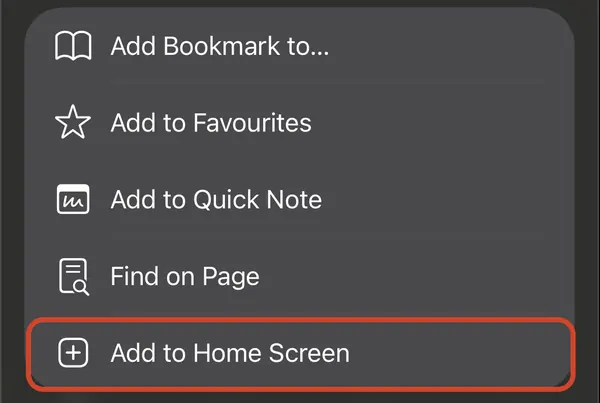
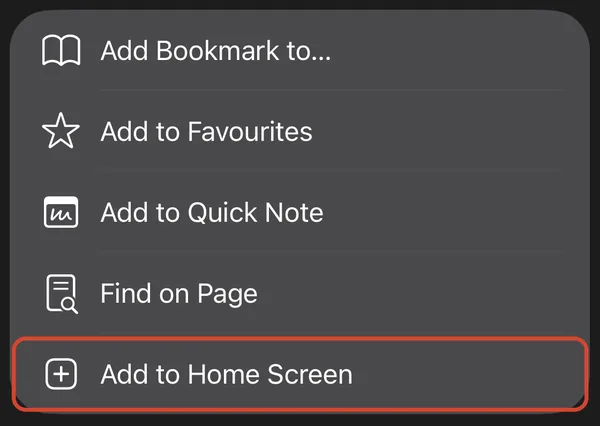
Install guide: new Safari pictures; step 1 is ☰ in the address bar
The share sheet's row of contacts is cut out of the picture.

Changed region(s): [[0.0, 0.0, 1.0, 1.0], [0.09, 0.0, 0.9, 0.0298]]

diff --git a/web/src/install/InstallGuide.tsx b/web/src/install/InstallGuide.tsx
@@ -27,8 +27,8 @@ const S = strings(
     label: 'Install the app',
     title: 'This app is designed to work from your Home Screen',
     why: 'In the browser, you might see some bugs or glitches.',
-    s1: 'Tap ••• at the bottom right.',
-    s1b: 'No ••• button? Tap Share, then go to step 3.',
+    s1: 'Tap ☰ in the address bar, on the left.',
+    s1b: 'No ☰ button? Tap ••• at the bottom right. No ••• button? Tap Share, then go to step 3.',
     s2: 'Tap Share.',
     s3: 'Tap View More.',
     s4: 'Tap Add to Home Screen.',
@@ -55,8 +55,8 @@ const S = strings(
     label: 'Инсталиране на приложението',
     title: 'Приложението е направено за работа от началния екран',
     why: 'В браузъра може да видите грешки и проблеми.',
-    s1: 'Натиснете ••• долу вдясно.',
-    s1b: 'Няма бутон •••? Натиснете „Споделяне“ и продължете от стъпка 3.',
+    s1: 'Натиснете ☰ вляво в адресната лента.',
+    s1b: 'Няма бутон ☰? Натиснете ••• долу вдясно. Няма бутон •••? Натиснете „Споделяне“ и продължете от стъпка 3.',
     s2: 'Натиснете „Споделяне“.',
     s3: 'Натиснете „Покажи още“.',
     s4: 'Натиснете „Добавяне към начален екран“.',
@@ -108,11 +108,11 @@ function browser(): Browser {
 
 const STEPS: Record<Exclude<Browser, 'brave' | 'inApp'>, Step[]> = {
   safari: [
-    { text: 's1', note: 's1b', img: step1, h: 234 },
-    { text: 's2', img: step2, h: 748 },
-    { text: 's3', img: step3, h: 573 },
-    { text: 's4', img: step4, h: 403 },
-    { text: 's5', img: step5, h: 488 },
+    { text: 's1', note: 's1b', img: step1, h: 209 },
+    { text: 's2', img: step2, h: 554 },
+    { text: 's3', img: step3, h: 603 },
+    { text: 's4', img: step4, h: 426 },
+    { text: 's5', img: step5, h: 476 },
   ],
   // After Share, Chrome's steps are Safari's: the same system screens.
   chrome: [
